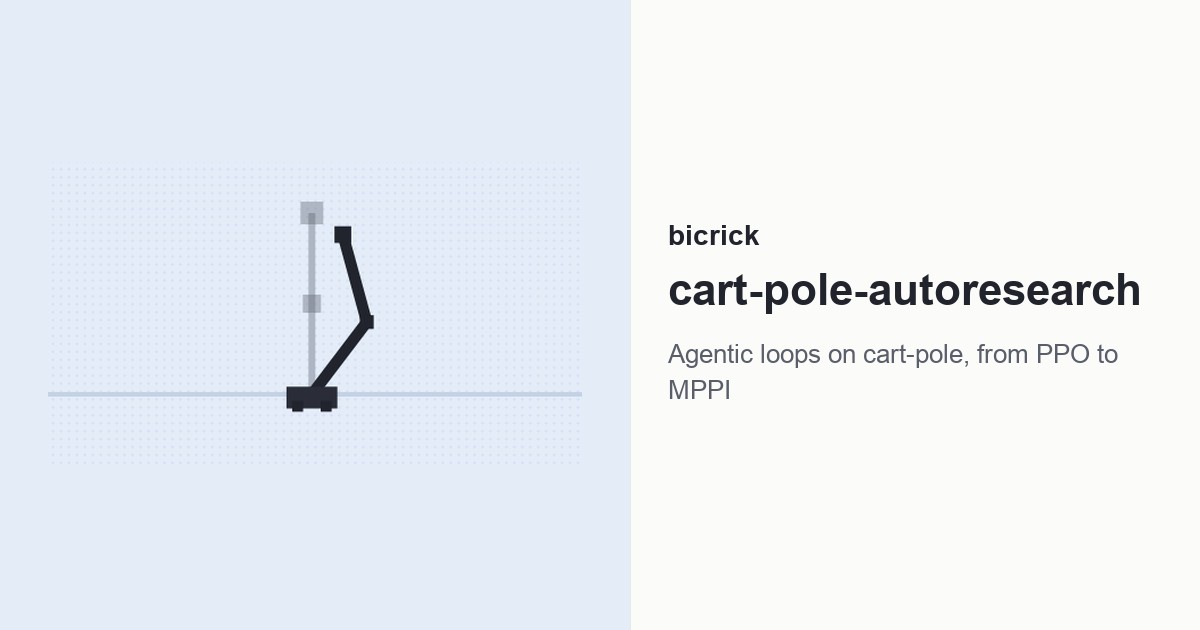
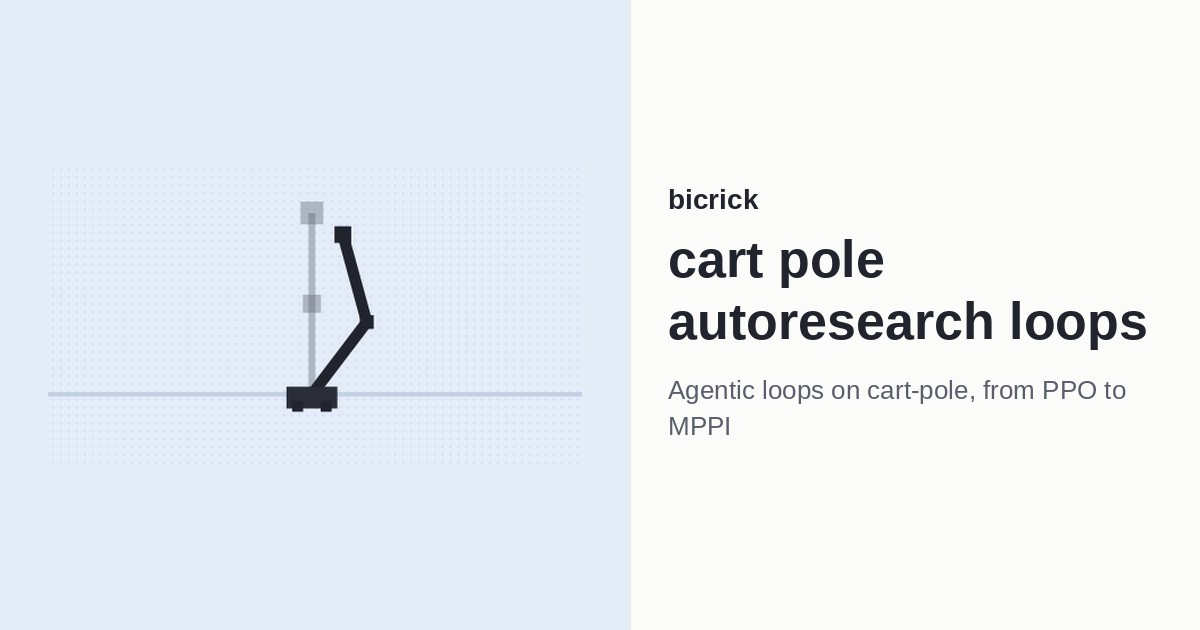
Rename cart-pole-autoresearch to cart pole autoresearch loops

diff --git a/src/projects/AgentResearchLoops.js b/src/projects/AgentResearchLoops.js
@@ -106,7 +106,7 @@ gcloud storage buckets add-iam-policy-binding gs://BUCKET \\
         QWOP finished under the 45.530 record. The triple pendulum balances and recovers when you grab it. The details are in the{' '}
         <Link to="/projects/qwop-python">qwop-python</Link>
         {' '}and{' '}
-        <Link to="/projects/auto-research">cart-pole-autoresearch</Link>
+        <Link to="/projects/auto-research">cart pole autoresearch loops</Link>
         {' '}writeups.
       </p>
 

diff --git a/src/constants/projects.js b/src/constants/projects.js
@@ -43,7 +43,7 @@ export const PROJECTS = [
     unlisted: true,
   },
   {
-    title: 'cart-pole-autoresearch',
+    title: 'cart pole autoresearch loops',
     description: 'browser-native cart-pole and pendulum controllers',
     timelineDescription:
       'Controllers for cart-pole plus double, triple, and quadruple pendulums running in the browser.',

diff --git a/src/projects/AutoResearch.js b/src/projects/AutoResearch.js
@@ -8,7 +8,7 @@ import FlowDiagram from '../components/project/FlowDiagram';
 function AutoResearch() {
   return (
     <ProjectDetail
-      title="cart-pole-autoresearch"
+      title="cart pole autoresearch loops"
       date="September 2026"
       linkHref="https://cart-pole-autoresearch.vercel.app/#triple"
       linkLabel="open demo"

diff --git a/scripts/generate-og-images.py b/scripts/generate-og-images.py
@@ -215,7 +215,7 @@ def make_page_cards():
     )
     split_card(
         PUBLIC / "images" / "auto-research" / "cart-pole-card.png",
-        "cart-pole-autoresearch",
+        "cart pole autoresearch loops",
         "Agentic loops on cart-pole, from PPO to MPPI",
         "auto-research-1200x630.jpg",
         fit="contain",
